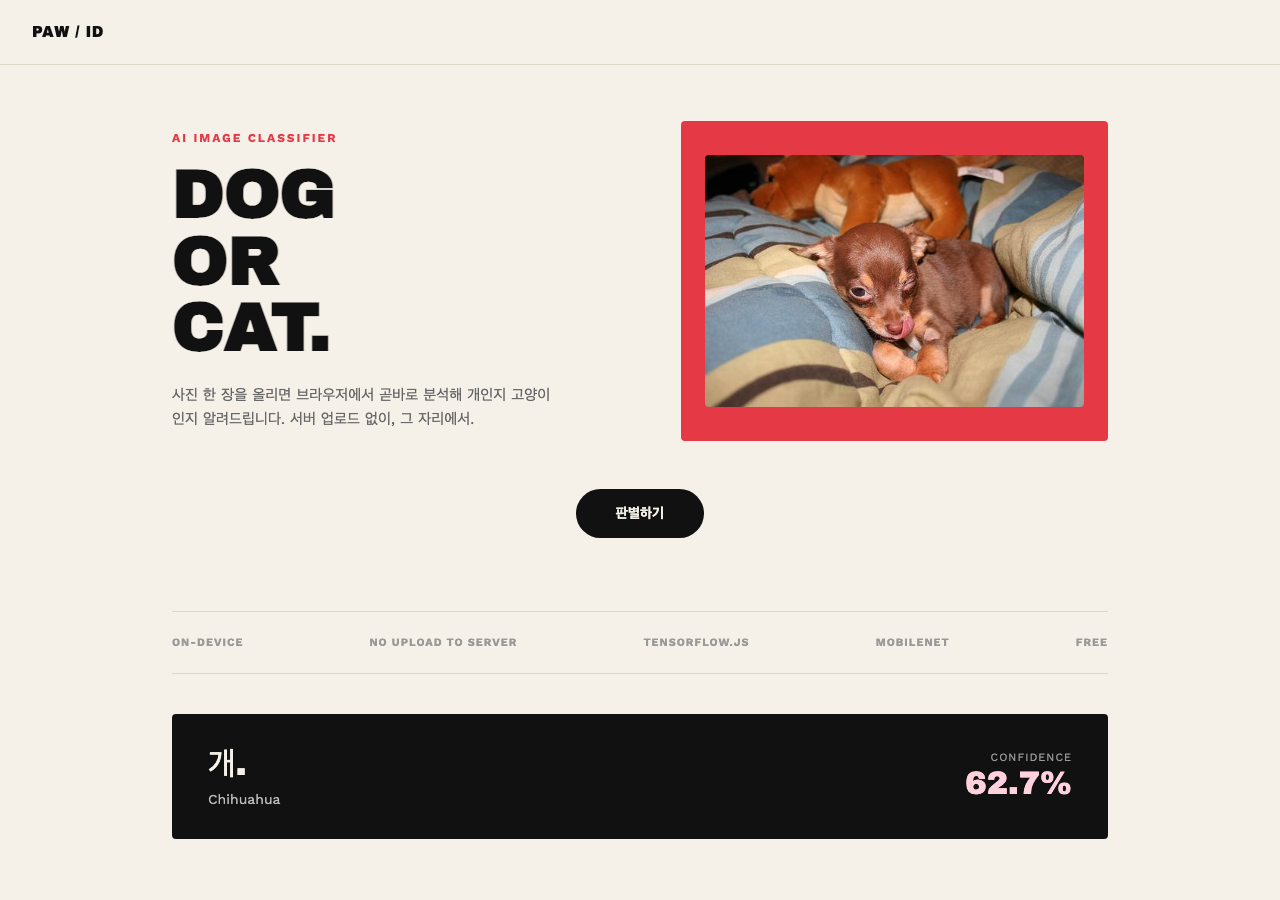
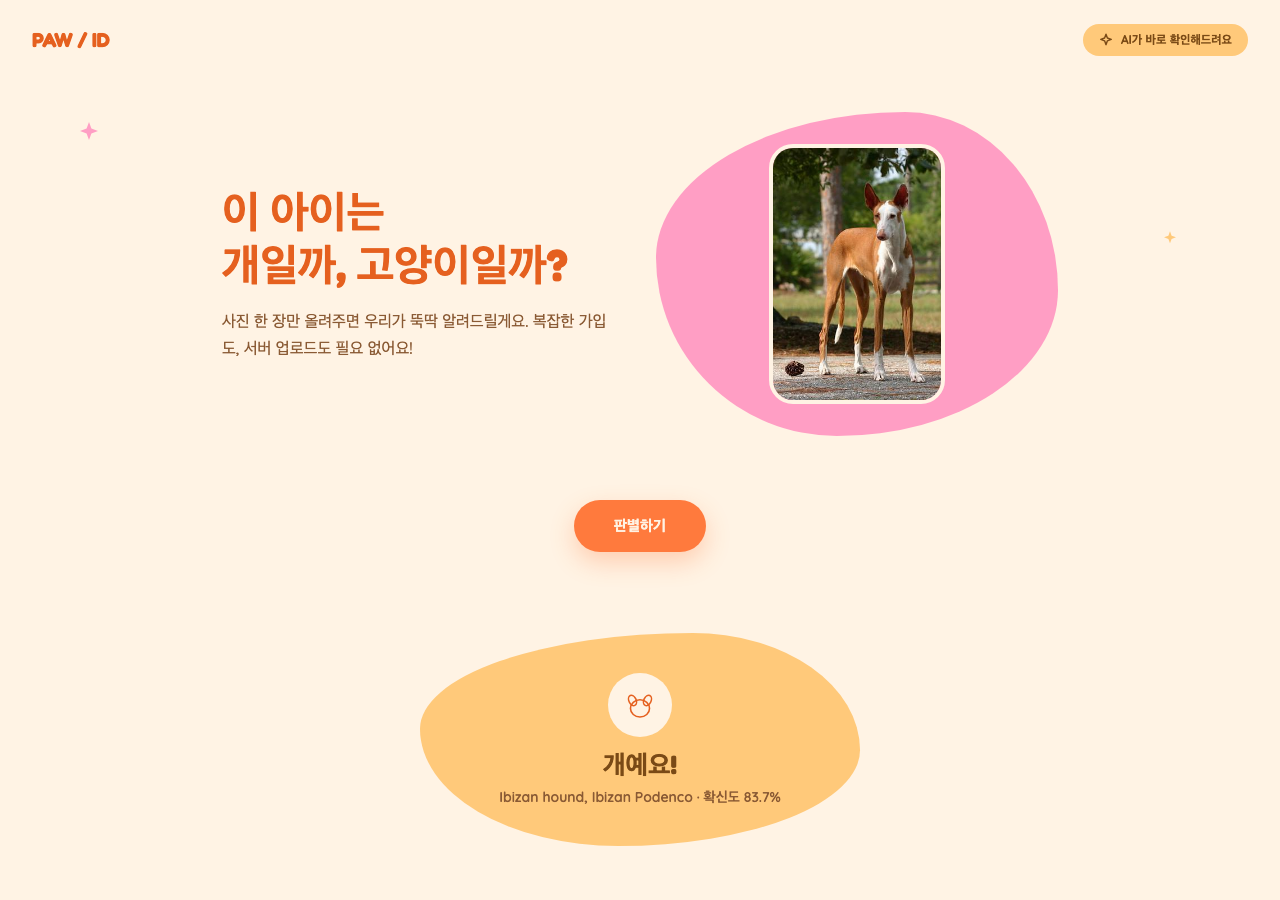
Redesign landing page in playful blob & sparkle style
Switches from the editorial direction to "Option 3": Fredoka/
Quicksand type, blob-shaped upload and result cards, warm orange/
pink/cream palette, star decorations. Updates README screenshot
to match.

diff --git a/style.css b/style.css
@@ -1,14 +1,15 @@
 :root {
   color-scheme: light;
-  --bg: #f5f1e9;
-  --fg: #111111;
-  --muted: #666666;
-  --border: #ddd7c8;
-  --red: #e63946;
-  --pink: #ffd1dc;
-  --card: #fbfaf6;
-  --display-font: "Archivo Black", "Arial Black", sans-serif;
-  --body-font: "Work Sans", system-ui, sans-serif;
+  --bg: #fff3e4;
+  --fg: #7a4a16;
+  --text: #8a5a34;
+  --orange: #ff7a3d;
+  --orange-dark: #e5601f;
+  --pink: #ff9ec4;
+  --yellow: #ffc97a;
+  --card: #ffffff;
+  --display-font: "Fredoka", system-ui, sans-serif;
+  --body-font: "Quicksand", system-ui, sans-serif;
 }
 
 * { box-sizing: border-box; }
@@ -17,59 +18,71 @@ body {
   margin: 0;
   font-family: var(--body-font);
   background: var(--bg);
-  color: var(--fg);
+  color: var(--text);
+  position: relative;
+  overflow-x: hidden;
 }
+
+.deco-star { position: absolute; z-index: 0; }
 
 .nav {
   display: flex;
   justify-content: space-between;
   align-items: center;
   padding: 24px 32px;
-  border-bottom: 1px solid var(--border);
+  position: relative;
+  z-index: 1;
 }
 
 .brand {
   font-family: var(--display-font);
-  font-size: 15px;
-  letter-spacing: 0.5px;
+  font-size: 20px;
+  font-weight: 700;
+  color: var(--orange-dark);
+}
+
+.nav-badge {
+  display: flex;
+  align-items: center;
+  gap: 8px;
+  background: var(--yellow);
+  color: var(--fg);
+  padding: 8px 16px;
+  border-radius: 999px;
+  font-weight: 700;
+  font-size: 12px;
 }
 
 main {
-  max-width: 1000px;
+  max-width: 900px;
   margin: 0 auto;
-  padding: 0 32px;
+  padding: 0 32px 80px;
+  position: relative;
+  z-index: 1;
 }
 
 .hero {
   display: grid;
-  grid-template-columns: 1.1fr 1fr;
-  gap: 40px;
+  grid-template-columns: 1fr 1fr;
+  gap: 32px;
   align-items: center;
-  padding: 56px 0 40px;
-}
-
-.eyebrow {
-  font-size: 12px;
-  font-weight: 700;
-  letter-spacing: 2px;
-  color: var(--red);
-  margin: 0 0 16px;
+  padding: 32px 0 56px;
 }
 
 h1 {
   font-family: var(--display-font);
-  font-size: clamp(48px, 7vw, 68px);
-  line-height: 0.98;
-  letter-spacing: -1px;
-  margin: 0;
+  font-size: clamp(32px, 5vw, 44px);
+  font-weight: 700;
+  line-height: 1.2;
+  color: var(--orange-dark);
+  margin: 0 0 16px;
 }
 
 .sub {
-  font-size: 15px;
-  color: var(--muted);
-  line-height: 1.6;
-  max-width: 380px;
-  margin: 22px 0 0;
+  font-size: 16px;
+  line-height: 1.7;
+  margin: 0;
+  max-width: 400px;
 }
 
 .hero-upload { display: flex; justify-content: center; }
@@ -80,18 +93,17 @@ h1 {
   align-items: center;
   justify-content: center;
   width: 100%;
-  min-height: 320px;
-  border-radius: 4px;
-  background: var(--red);
-  color: var(--bg);
+  min-height: 300px;
+  border-radius: 62% 38% 55% 45% / 45% 55% 45% 55%;
+  background: var(--pink);
   cursor: pointer;
-  padding: 24px;
+  padding: 32px;
   transition: filter 0.15s;
 }
 
 .drop-zone:hover,
 .drop-zone.dragover {
-  filter: brightness(1.06);
+  filter: brightness(1.05);
 }
 
 .drop-empty[hidden] {
@@ -103,60 +115,50 @@ h1 {
   flex-direction: column;
   align-items: center;
   text-align: center;
-  gap: 14px;
+  gap: 12px;
+  color: var(--bg);
   font-weight: 600;
   font-size: 14px;
 }
 
 .drop-zone img {
   max-width: 100%;
-  max-height: 320px;
-  border-radius: 4px;
+  max-height: 260px;
+  border-radius: 24px;
+  border: 4px solid var(--bg);
 }
 
 .cta-row {
   display: flex;
   flex-direction: column;
   align-items: center;
-  padding: 8px 0 32px;
+  padding: 8px 0 40px;
 }
 
 button {
   padding: 16px 40px;
   font-family: var(--body-font);
-  font-size: 14px;
+  font-size: 15px;
   font-weight: 700;
   color: var(--bg);
-  background: var(--fg);
+  background: var(--orange);
   border: none;
   border-radius: 999px;
   cursor: pointer;
+  box-shadow: 0 10px 24px rgba(255, 122, 61, 0.3);
 }
 
 button:disabled {
-  background: #aaa;
+  background: #d9b89a;
+  box-shadow: none;
   cursor: not-allowed;
 }
 
 .status {
   margin-top: 12px;
-  color: var(--muted);
+  color: var(--text);
   font-size: 13px;
   min-height: 1.2em;
-}
-
-.trust-strip {
-  display: flex;
-  flex-wrap: wrap;
-  justify-content: space-between;
-  gap: 12px 20px;
-  padding: 24px 0;
-  border-top: 1px solid var(--border);
-  border-bottom: 1px solid var(--border);
-  font-size: 11px;
-  font-weight: 700;
-  letter-spacing: 1px;
-  color: #999;
 }
 
 .result[hidden] {
@@ -165,46 +167,43 @@ button:disabled {
 
 .result {
   display: flex;
+  flex-direction: column;
   align-items: center;
-  justify-content: space-between;
-  gap: 24px;
-  background: var(--fg);
-  color: var(--bg);
-  border-radius: 4px;
-  padding: 32px 36px;
-  margin: 40px 0 64px;
+  text-align: center;
+  gap: 6px;
+  background: var(--yellow);
+  border-radius: 62% 38% 55% 45% / 45% 55% 45% 55%;
+  padding: 40px 48px;
+  margin: 0 auto;
+  max-width: 440px;
+}
+
+.result-icon {
+  display: flex;
+  align-items: center;
+  justify-content: center;
+  width: 64px;
+  height: 64px;
+  background: var(--bg);
+  border-radius: 999px;
+  margin-bottom: 6px;
 }
 
 .result-label {
   font-family: var(--display-font);
-  font-size: 32px;
+  font-size: 26px;
+  font-weight: 700;
+  color: var(--fg);
   margin: 0;
 }
 
 .result-breed {
+  font-weight: 600;
   font-size: 14px;
-  color: #bbb;
-  margin: 6px 0 0;
-}
-
-.result-right { text-align: right; }
-
-.result-confidence-tag {
-  font-size: 11px;
-  color: #999;
-  letter-spacing: 1px;
+  color: var(--text);
   margin: 0;
-}
-
-.result-confidence {
-  font-family: var(--display-font);
-  font-size: 32px;
-  color: var(--pink);
-  margin: 2px 0 0;
 }
 
 @media (max-width: 640px) {
   .hero { grid-template-columns: 1fr; }
-  .result { flex-direction: column; align-items: flex-start; text-align: left; }
-  .result-right { text-align: left; }
 }

diff --git a/index.html b/index.html
@@ -5,20 +5,26 @@
   <meta name="viewport" content="width=device-width, initial-scale=1.0" />
   <title>개 고양이 판별기</title>
   <link rel="preconnect" href="https://fonts.googleapis.com" />
-  <link rel="stylesheet" href="https://fonts.googleapis.com/css2?family=Archivo+Black&family=Work+Sans:wght@400;500;600;700&display=swap" />
+  <link rel="stylesheet" href="https://fonts.googleapis.com/css2?family=Fredoka:wght@500;600;700&family=Quicksand:wght@500;600;700&display=swap" />
   <link rel="stylesheet" href="style.css" />
 </head>
 <body>
+  <svg class="deco-star" style="top:120px; left:6%;" width="24" height="24" viewBox="0 0 24 24"><path d="M12 2l2.4 6.6L21 11l-6.6 2.4L12 20l-2.4-6.6L3 11l6.6-2.4z" fill="#FF9EC4" /></svg>
+  <svg class="deco-star" style="top:230px; right:8%;" width="16" height="16" viewBox="0 0 24 24"><path d="M12 2l2.4 6.6L21 11l-6.6 2.4L12 20l-2.4-6.6L3 11l6.6-2.4z" fill="#FFC97A" /></svg>
+
   <header class="nav">
     <div class="brand">PAW / ID</div>
+    <div class="nav-badge">
+      <svg width="14" height="14" viewBox="0 0 24 24" fill="none" stroke="#7A4A16" stroke-width="2.4" stroke-linecap="round" stroke-linejoin="round"><path d="M12 2l2.4 6.6L21 11l-6.6 2.4L12 20l-2.4-6.6L3 11l6.6-2.4z" /></svg>
+      AI가 바로 확인해드려요
+    </div>
   </header>
 
   <main>
     <section class="hero">
       <div class="hero-copy">
-        <p class="eyebrow">AI IMAGE CLASSIFIER</p>
-        <h1>DOG<br />OR<br />CAT.</h1>
-        <p class="sub">사진 한 장을 올리면 브라우저에서 곧바로 분석해 개인지 고양이인지 알려드립니다. 서버 업로드 없이, 그 자리에서.</p>
+        <h1>이 아이는<br />개일까, 고양이일까?</h1>
+        <p class="sub">사진 한 장만 올려주면 우리가 뚝딱 알려드릴게요. 복잡한 가입도, 서버 업로드도 필요 없어요!</p>
       </div>
 
       <div class="hero-upload">
@@ -41,19 +47,18 @@
       <p id="status" class="status"></p>
     </div>
 
-    <div class="trust-strip">
-      <span>ON-DEVICE</span><span>NO UPLOAD TO SERVER</span><span>TENSORFLOW.JS</span><span>MOBILENET</span><span>FREE</span>
-    </div>
-
     <section id="result" class="result" hidden>
-      <div class="result-left">
-        <p id="resultLabel" class="result-label"></p>
-        <p id="resultBreed" class="result-breed"></p>
+      <div class="result-icon">
+        <svg width="34" height="34" viewBox="0 0 150 150">
+          <ellipse cx="75" cy="90" rx="42" ry="38" fill="none" stroke="#E5601F" stroke-width="7" />
+          <ellipse cx="42" cy="55" rx="16" ry="24" fill="none" stroke="#E5601F" stroke-width="7" transform="rotate(-25 42 55)" />
+          <ellipse cx="108" cy="55" rx="16" ry="24" fill="none" stroke="#E5601F" stroke-width="7" transform="rotate(25 108 55)" />
+        </svg>
       </div>
-      <div class="result-right">
-        <p class="result-confidence-tag">CONFIDENCE</p>
-        <p id="resultConfidence" class="result-confidence"></p>
-      </div>
+      <p id="resultLabel" class="result-label"></p>
+      <p class="result-breed">
+        <span id="resultBreed"></span> · 확신도 <span id="resultConfidence"></span>
+      </p>
     </section>
   </main>
 

diff --git a/script.js b/script.js
@@ -84,11 +84,11 @@ async function classifyImage() {
 
   resultSection.hidden = false;
   if (match) {
-    resultLabel.textContent = match.kind === "cat" ? "고양이." : "개.";
+    resultLabel.textContent = match.kind === "cat" ? "고양이예요!" : "개예요!";
     resultBreed.textContent = match.className;
     resultConfidence.textContent = `${(match.probability * 100).toFixed(1)}%`;
   } else {
-    resultLabel.textContent = "글쎄요.";
+    resultLabel.textContent = "글쎄요!";
     resultBreed.textContent = `가장 유력한 추측: ${predictions[0].className}`;
     resultConfidence.textContent = `${(predictions[0].probability * 100).toFixed(1)}%`;
   }
